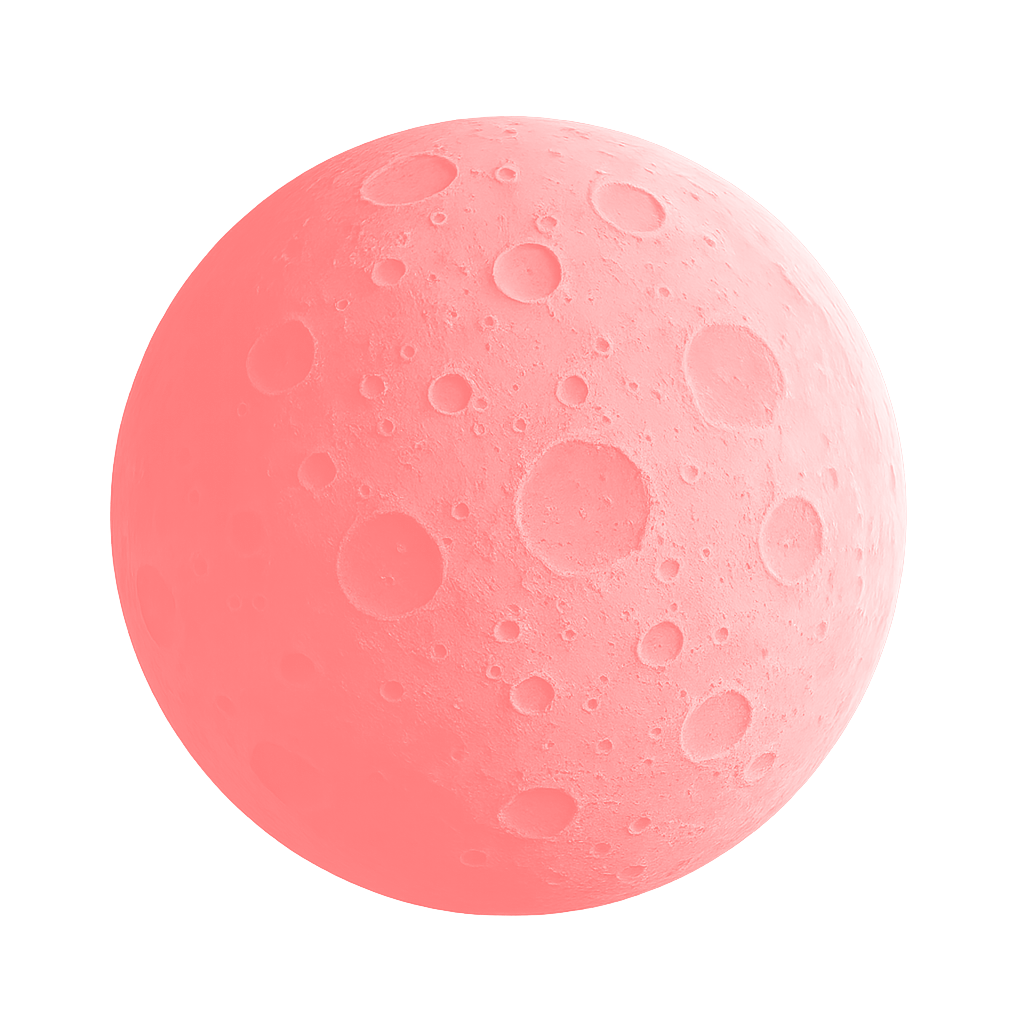
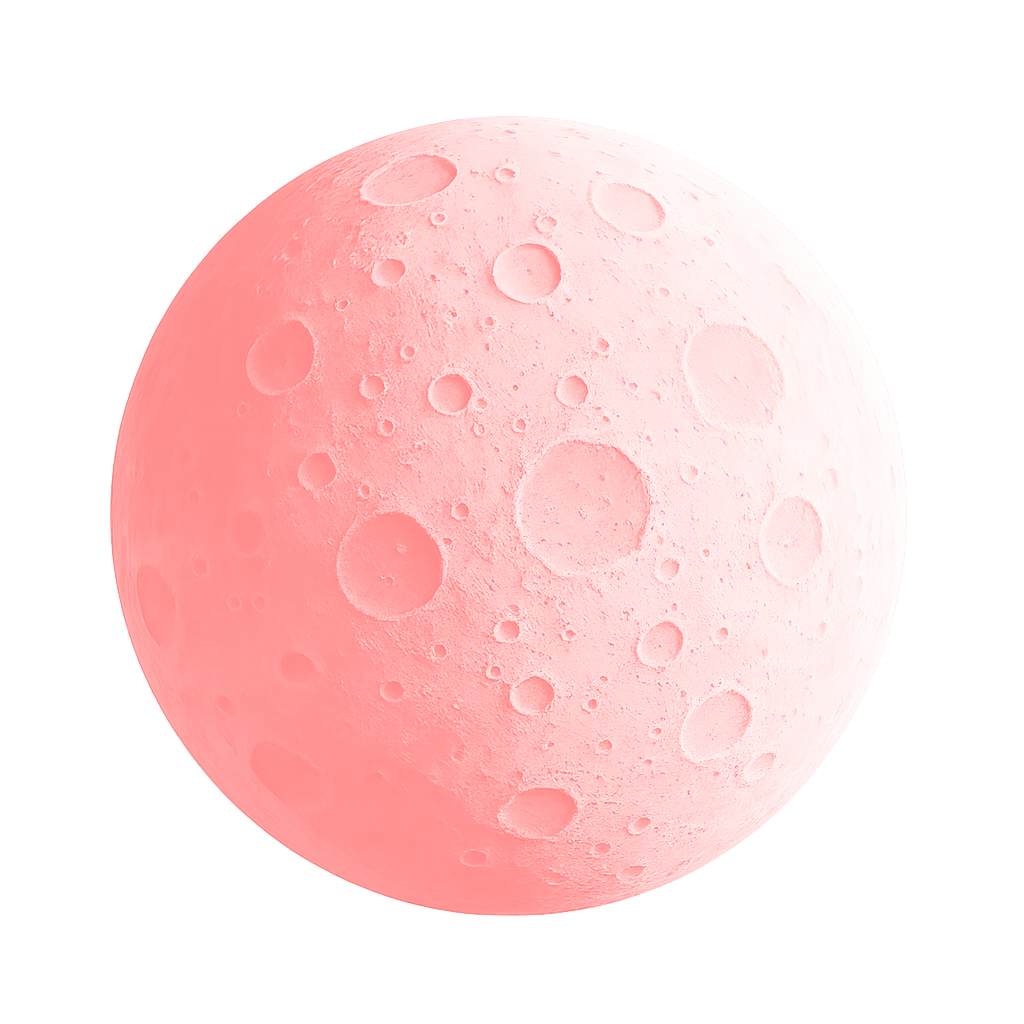
Update background images

diff --git a/src/app/page.tsx b/src/app/page.tsx
@@ -2,6 +2,8 @@ import Card from '@/components/Card'
 import PageAnimations from '@/components/PageAnimations'
 import planet1Img from '@/assets/images/planet-1.png'
 import planet2Img from '@/assets/images/planet-2.png'
+import planet3Img from '@/assets/images/planet-3.png'
+
 import marsImg from '@/assets/images/mars-landscape.png'
 
 import { PROJECTS } from '@/resources/projects'
@@ -46,7 +48,7 @@ export default function HomePage() {
             role="presentation"
             src={planet1Img}
             alt=""
-            className="bg-image absolute top-10 -right-40 -z-1 size-100 object-contain opacity-60 md:-right-20 lg:-right-10 xl:top-5 xl:-right-35 xl:size-120 2xl:-right-60"
+            className="bg-image absolute top-10 -right-40 -z-1 size-100 object-contain md:-right-20 lg:-right-10 xl:top-5 xl:-right-35 xl:size-120 2xl:-right-60"
             quality={100}
           />
         </section>
@@ -94,11 +96,11 @@ export default function HomePage() {
             role="presentation"
             src={planet2Img}
             alt=""
-            className="bg-image absolute top-10 -left-40 -z-1 size-80 object-contain opacity-60 md:-left-50 lg:-left-60 xl:top-5 xl:-left-70 xl:size-100 2xl:-left-80"
+            className="bg-image absolute top-10 -left-40 -z-1 size-80 object-contain md:-left-50 lg:-left-60 xl:top-5 xl:-left-70 xl:size-100 2xl:-left-80"
             quality={100}
           />
         </section>
-        <section className="flex flex-col gap-4">
+        <section className="relative flex flex-col gap-4">
           <h2 className="heading lg:leading-tight">Tools</h2>
           <p className="mb-6">I use the following technologies to create my projects:</p>
           <div className="w-fit columns-1 gap-y-4 sm:columns-2 lg:grid lg:columns-4 lg:grid-cols-4 lg:gap-x-12 lg:gap-y-8 lg:[column-fill:balance]">
@@ -115,6 +117,13 @@ export default function HomePage() {
               </div>
             ))}
           </div>
+          <Image
+            role="presentation"
+            src={planet3Img}
+            alt=""
+            className="bg-image absolute top-50 -right-40 -z-1 size-90 object-contain sm:-top-70 md:-right-50 lg:-right-60 xl:-top-100 xl:-right-70 xl:size-120 2xl:-right-80"
+            quality={100}
+          />
         </section>
 
         <div
@@ -124,7 +133,7 @@ export default function HomePage() {
             role="presentation"
             src={marsImg}
             alt=""
-            className="bg-image h-full w-full max-w-[1920px] scale-112 object-contain xl:scale-100"
+            className="bg-image h-full w-full max-w-[1920px] scale-115 object-contain xl:scale-100"
             quality={100}
           />
         </div>

diff --git a/src/components/ShootingStars.tsx b/src/components/ShootingStars.tsx
@@ -10,7 +10,7 @@ type ShootingStarsProps = {
 
 const MAX_STAR_WIDTH = 80
 
-const ShootingStars: React.FC<ShootingStarsProps> = ({ count = 15, minDuration = 7, maxDuration = 18 }) => {
+const ShootingStars: React.FC<ShootingStarsProps> = ({ count = 10, minDuration = 7, maxDuration = 18 }) => {
   useEffect(() => {
     const main = document.getElementsByTagName('main')[0]
     if (!main) return
@@ -74,7 +74,7 @@ const ShootingStars: React.FC<ShootingStarsProps> = ({ count = 15, minDuration =
               onComplete: () => animateStar(star), // loop forever
             })
           },
-          delay: Math.random() * 4,
+          delay: Math.random() * 6,
         })
       }
 
